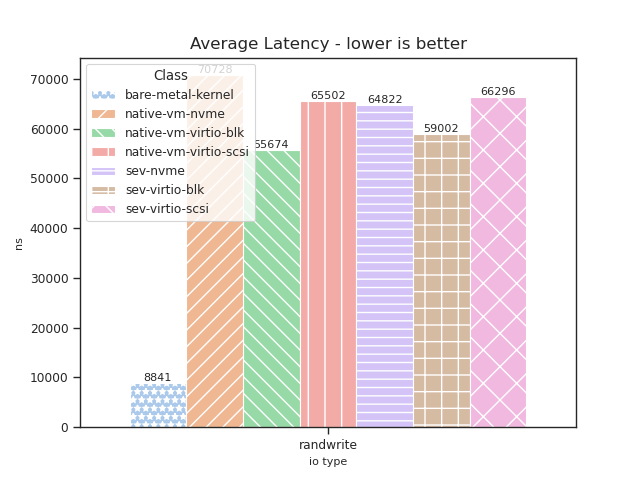
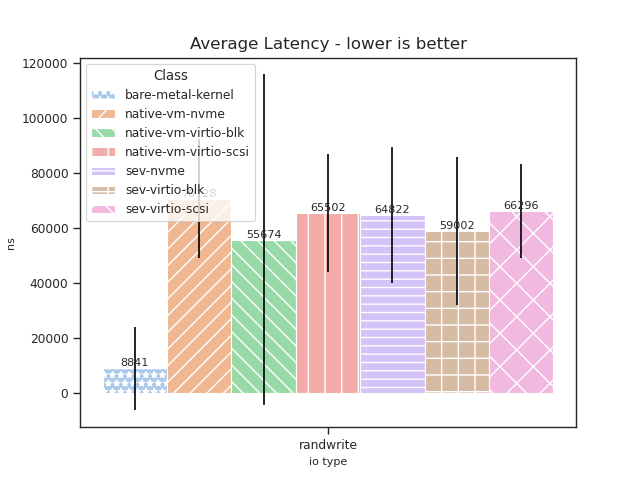
Add stddev to plots
- TODO: talk w/ Masa about weird stddev

diff --git a/tools/fio-plotters/src/plot/plotter.py b/tools/fio-plotters/src/plot/plotter.py
@@ -17,6 +17,7 @@ sns.set_context("paper", rc={"axes.labelsize": 8, "font.size": 8, "axes.titlesiz
 FIRST_COL_LABEL = 'io type'
 SCND_COL_LABEL = 'io stack'
 THIRD_COL_LABEL = 'mt res'
+FOURTH_COL_LABEL = 'mt stddev'
 
 READ_IOT_TYPE_ID = 'read'
 WRITE_IOT_TYPE_ID = 'write'
@@ -39,6 +40,21 @@ def legend_without_duplicate_labels(ax):
     handles, labels = ax.get_legend_handles_labels()
     unique = [(h, l) for i, (h, l) in enumerate(zip(handles, labels)) if l not in labels[:i]]
     ax.legend(*zip(*unique))
+
+def add_stddev(plot, df):
+    # plt.errorbar(x=range(len(df[FIRST_COL_LABEL])), y=df[THIRD_COL_LABEL], yerr=df[FOURTH_COL_LABEL], fmt='none', color='black', capsize=4)
+
+    # Get the x and y coordinates of the bars
+    x_coords = []
+    y_coords = []
+    for container in plot.containers:
+        rect = container[0]
+        x_coords.append(rect.get_x() + rect.get_width() / 2)
+        y_coords.append(rect.get_height())
+    breakpoint()
+
+    # Add the standard deviation as error bars to the specific bar chart container
+    plt.errorbar(x=x_coords, y=y_coords, yerr=df[FOURTH_COL_LABEL], fmt='none', color='black')
 
 
 def add_values_on_bars(ax):
@@ -80,11 +96,17 @@ def plot(mt_data_dict, output_dir):
 
         print(f'{mt}\n')
         for iot, iot_group in iot_group_dict.items():
-            iot_group_collection = {FIRST_COL_LABEL: [], SCND_COL_LABEL: [], THIRD_COL_LABEL: []}
+            iot_group_collection = {
+                    FIRST_COL_LABEL: [],
+                    SCND_COL_LABEL: [],
+                    THIRD_COL_LABEL: [],
+                    FOURTH_COL_LABEL: []
+                }
             for iot_group_member in iot_group:
                 iot_group_collection[FIRST_COL_LABEL].append(iot)
                 iot_group_collection[SCND_COL_LABEL].append(iot_group_member[0])
                 iot_group_collection[THIRD_COL_LABEL].append(iot_group_member[1])
+                iot_group_collection[FOURTH_COL_LABEL].append(iot_group_member[2])
 
             df = pd.DataFrame(data=iot_group_collection)\
                 .drop_duplicates(subset=[FIRST_COL_LABEL, SCND_COL_LABEL])\
@@ -97,6 +119,7 @@ def plot(mt_data_dict, output_dir):
             add_values_on_bars(plot)
             apply_hatches(plot)
             add_plot_mt_styling(plot, mt)
+            add_stddev(plot, df)
             fig = plot.get_figure()
             fig.savefig(f'{output_dir}/{mt}-{iot}-out.png')
             print(f'{output_dir}/{mt}-{iot}-out.png')

diff --git a/tools/fio-plotters/src/plot/json_parser.py b/tools/fio-plotters/src/plot/json_parser.py
@@ -26,17 +26,21 @@ MT_REV_INDEX  = -2
 DEV_REV_INDEX = -3
 ENV_REV_INDEX = -4
 
-JOB_KEY            = 'jobs'
-JOB_JOBOPTS_KEY    = 'job options'
-JOB_JOBOPTS_RW_KEY = 'rw'
+JOB_KEY             = 'jobs'
+JOB_JOBOPTS_KEY     = 'job options'
+JOB_JOBOPTS_RW_KEY  = 'rw'
 JOB_JOBOPTS_MIX_KEY = 'mix'
-JOB_WRITE_KEY      = 'write'
-JOB_READ_KEY       = 'read'
+JOB_WRITE_KEY       = 'write'
+JOB_READ_KEY        = 'read'
 
 JOB_R_W_BW_KEY        = 'bw'
 JOB_R_W_IOPS_KEY      = 'iops'
 JOB_R_W_ALAT_KEY      = 'lat_ns'
 JOB_R_W_ALAT_MEAN_KEY = 'mean'
+
+JOB_R_W_BW_STDDEV_KEY   = 'bw_dev'
+JOB_R_W_ALAT_STDDEV_KEY = 'stddev'
+JOB_R_W_IOPS_STDDEV_KEY = 'iops_stddev'
 
 
 @dataclass
@@ -66,10 +70,13 @@ def parse_ctxs(mt_job_ctxs):
 
             if mt == MT_BW:
                 mt_res_key = JOB_R_W_BW_KEY
+                mt_stddev_key = JOB_R_W_BW_STDDEV_KEY
             elif mt == MT_IOPS:
                 mt_res_key = JOB_R_W_IOPS_KEY
+                mt_stddev_key = JOB_R_W_IOPS_STDDEV_KEY
             elif mt == MT_ALAT:
                 mt_res_key = JOB_R_W_ALAT_KEY
+                mt_stddev_key = JOB_R_W_ALAT_STDDEV_KEY
             else:
                 assert False, f"invalid mt: {mt}"
             # r/w my be e.g. randread; need to check if r or w
@@ -83,8 +90,10 @@ def parse_ctxs(mt_job_ctxs):
             # requires extra key
             if mt == MT_ALAT:
                 mt_res = job[iot_key][mt_res_key][JOB_R_W_ALAT_MEAN_KEY]
+                mt_stddev = job[iot_key][mt_res_key][mt_stddev_key]
             else:
                 mt_res = job[iot_key][mt_res_key]
+                mt_stddev = job[iot_key][mt_stddev_key]
 
             # round
             mt_res = round(mt_res)
@@ -95,7 +104,7 @@ def parse_ctxs(mt_job_ctxs):
             # iotGroup = IotGroup(job_ctx.env, job_ctx.device, mt_res)
             # res_d[mt][io_type].append(IotGroup)
             # NOTE: could be changed depending on measurement
-            res_d[mt][io_type].append([f"{job_ctx.env}-{job_ctx.device}", mt_res])
+            res_d[mt][io_type].append([f"{job_ctx.env}-{job_ctx.device}", mt_res, mt_stddev])
 
     return res_d
 
